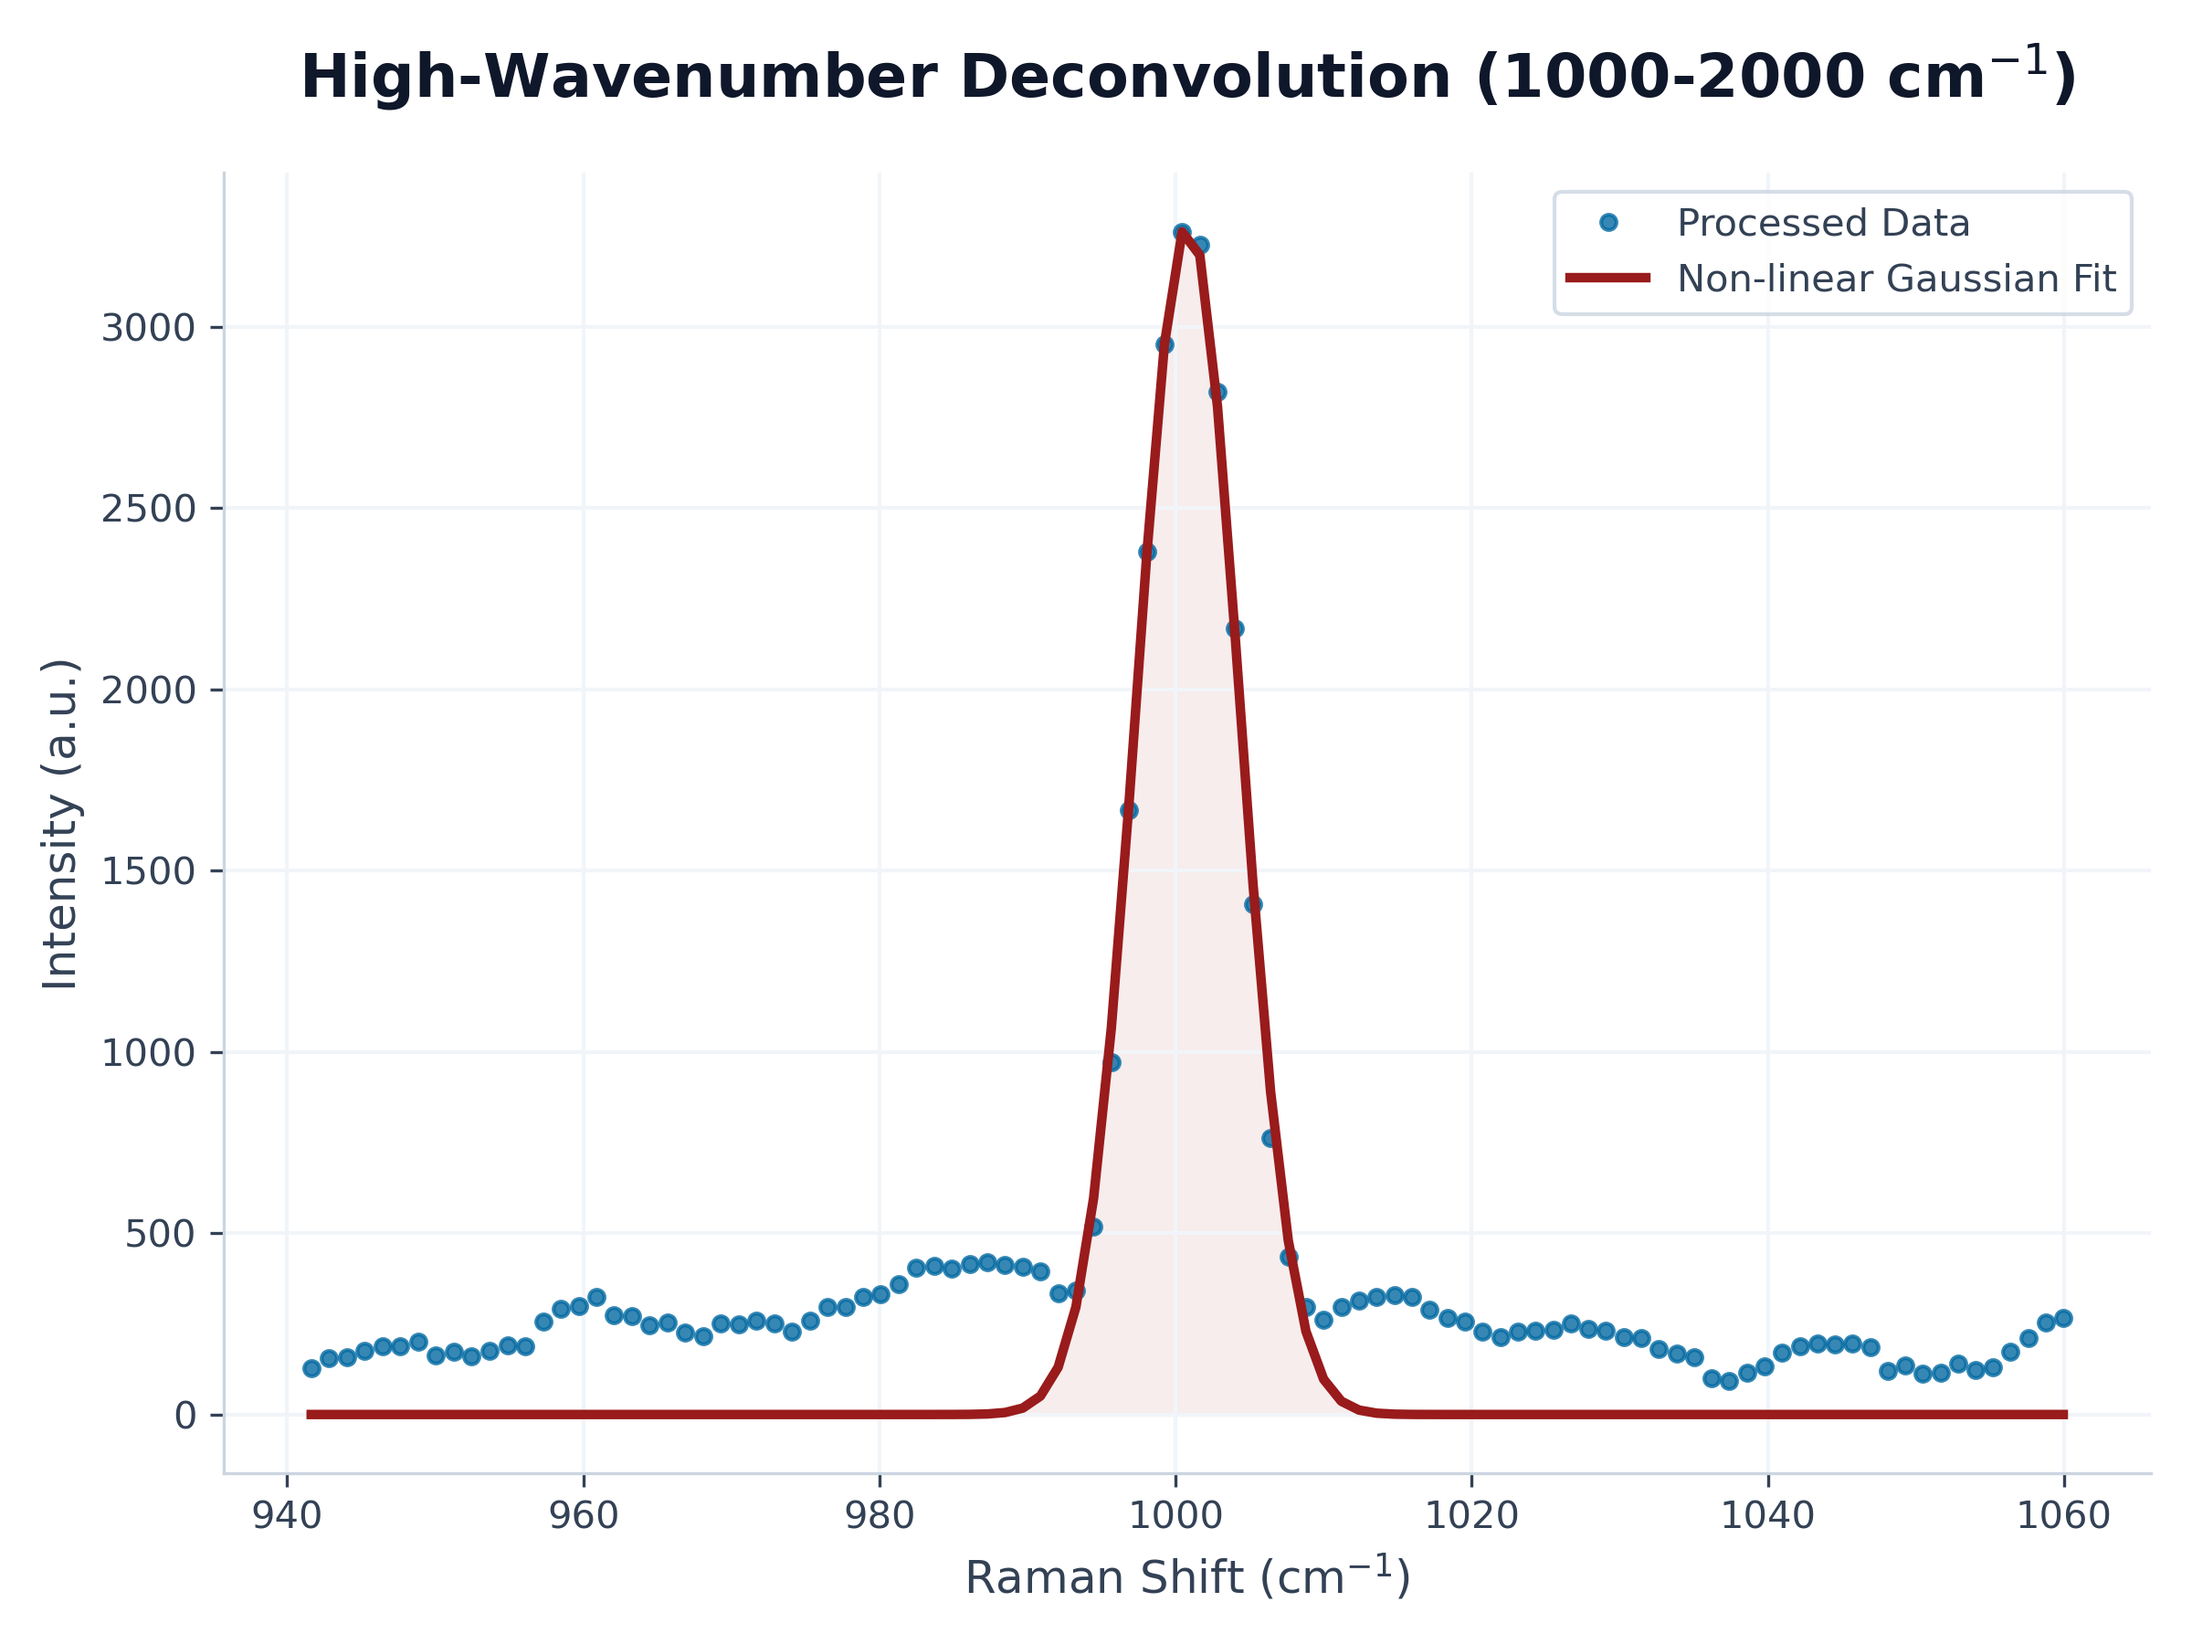
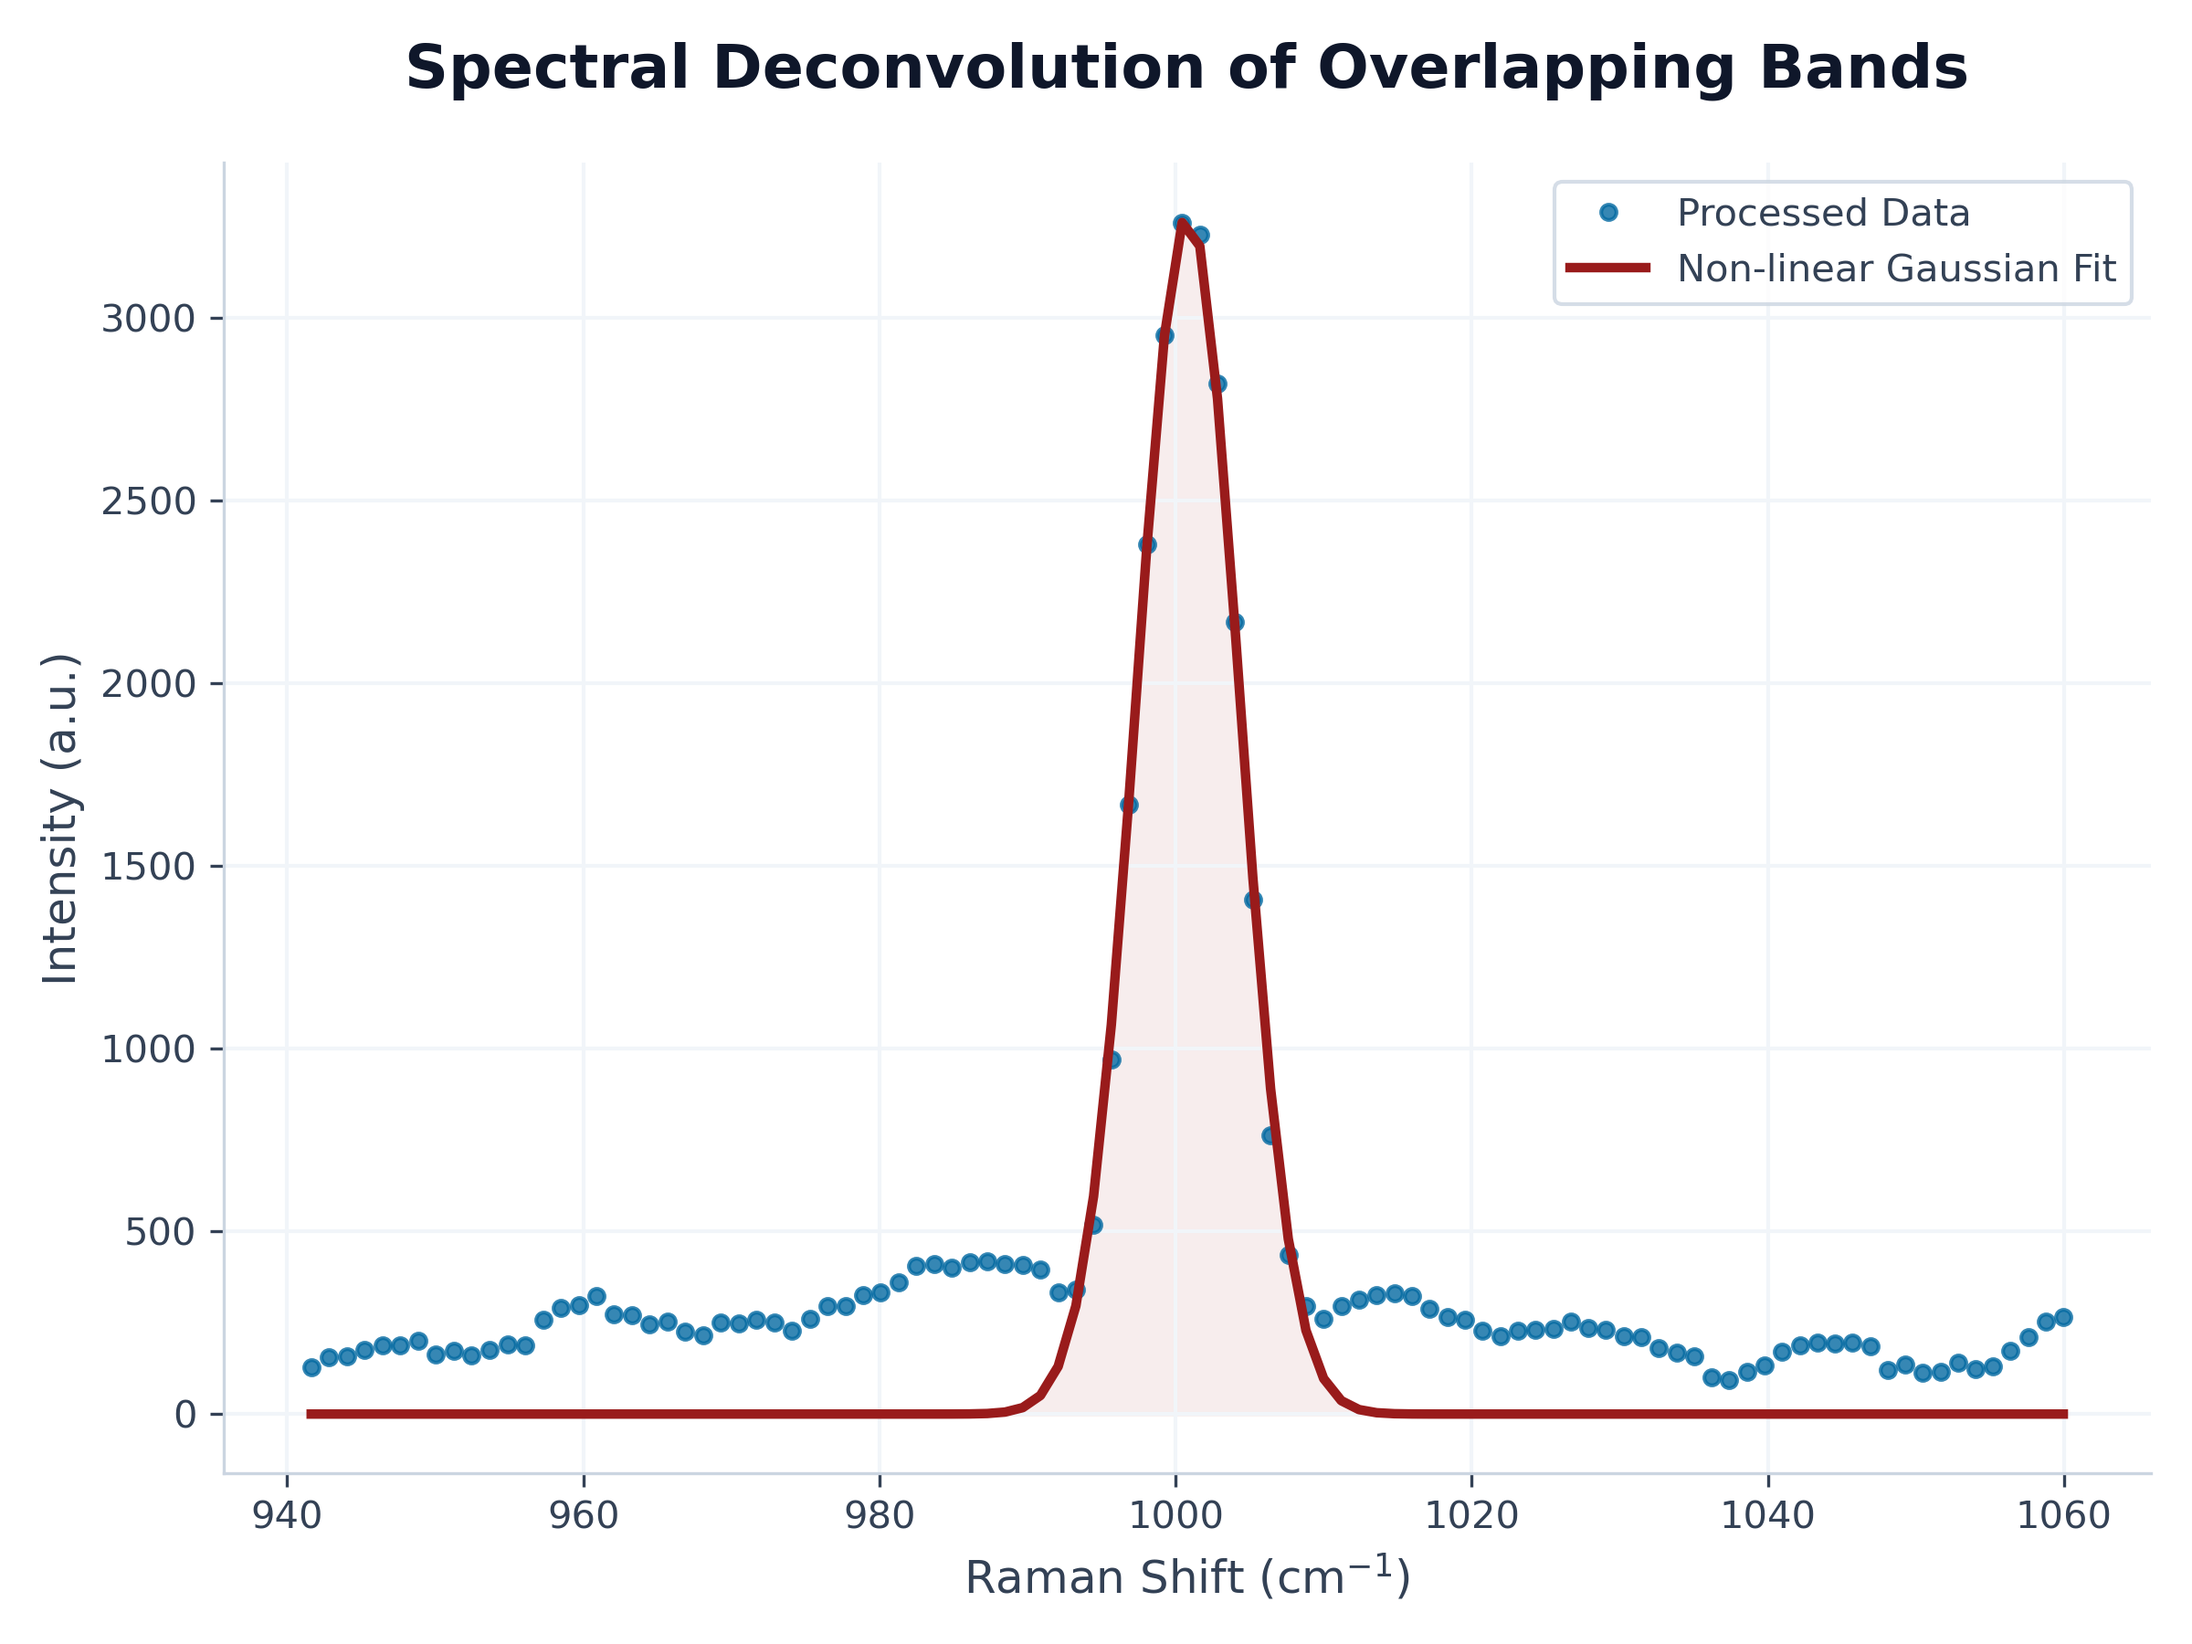
fix legends and titles

diff --git a/generate_plots.py b/generate_plots.py
@@ -92,7 +92,7 @@ except:
 fig, ax = plt.subplots(figsize=(8, 6), dpi=300)
 ax.plot(x_region, y_region, 'o', color=color_corrected, markersize=4, label='Processed Data', alpha=0.8)
 ax.plot(x_region, y_fit, color=color_fit, linewidth=2.5, label='Non-linear Gaussian Fit')
-setup_axes(ax, "High-Wavenumber Deconvolution (1000-2000 cm$^{-1}$)")
+setup_axes(ax, "Spectral Deconvolution of Overlapping Bands")
 ax.legend(frameon=True, facecolor='white', edgecolor=spine_color, labelcolor=text_color)
 ax.fill_between(x_region, y_fit, 0, color=color_fit, alpha=0.08)
 fig.patch.set_facecolor(bg_color)
